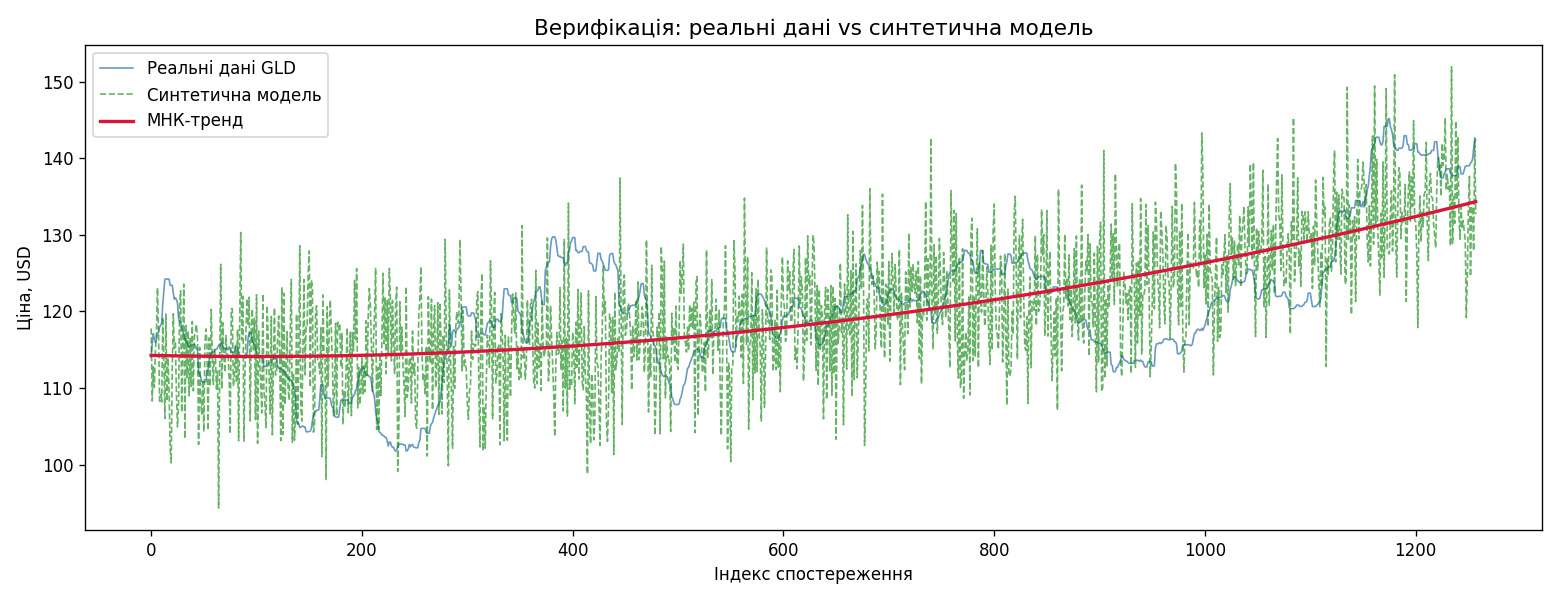
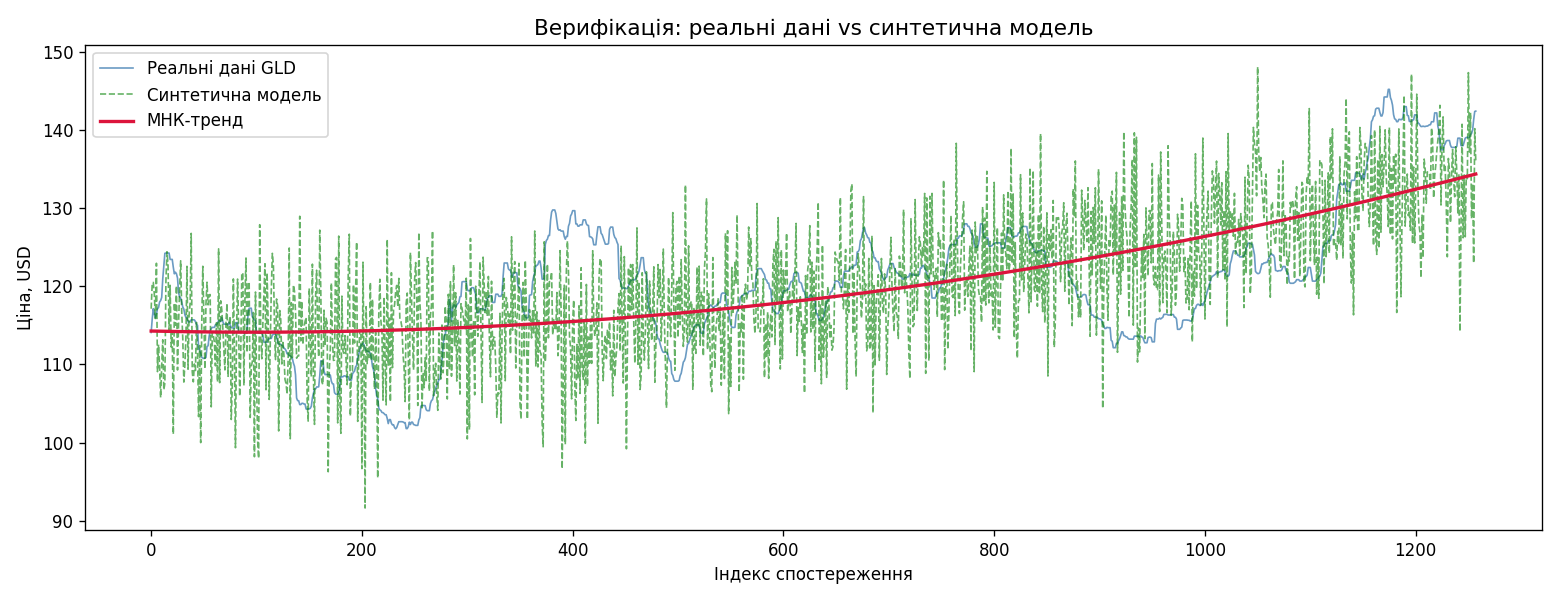
init project

diff --git a/lab 1/main.py b/lab 1/main.py
@@ -63,14 +63,7 @@ def save_to_csv(df: pd.DataFrame, filename: str = "gold_prices.csv") -> None:
     print(f"Рядків: {len(df)}")
 
 
-# ============================================================
-# 3. ОЦІНКА ДИНАМІКИ ТРЕНДУ
-# ============================================================
-
 def plot_trend(prices: np.ndarray, Yout: np.ndarray, title: str, filename: str) -> None:
-    """
-    Візуалізація реальних даних та лінії МНК-тренду.
-    """
     plt.figure(figsize=(12, 5))
     plt.plot(prices, color="steelblue", linewidth=1, label="Реальні ціни GLD")
     plt.plot(Yout[:, 0], color="crimson", linewidth=2, linestyle="--", label="МНК-тренд (квадратична модель)")
@@ -81,7 +74,7 @@ def plot_trend(prices: np.ndarray, Yout: np.ndarray, title: str, filename: str) 
     plt.tight_layout()
     plt.savefig(filename, dpi=120)
     plt.close()
-    print(f"   Графік збережено: {os.path.abspath(filename)}")
+    print(f"Графік збережено: {os.path.abspath(filename)}")
 
 
 def analyze_trend(prices: np.ndarray) -> None:
@@ -95,8 +88,6 @@ def analyze_trend(prices: np.ndarray) -> None:
     print(f"Остання ціна: {prices[-1]:.2f} USD")
     print(f"Загальна зміна: {total_change:+.2f} USD ({pct_change:+.2f}%)")
     slope = MNK_AV_Detect(prices)
-    direction = "↑" if slope > 0 else "↓"
-    print(f"Нахил МНК-моделі: {slope:.6f}({direction})")
 
 
 def stat_characteristics(prices: np.ndarray, label: str) -> dict:
@@ -225,10 +216,6 @@ def sliding_window_clean(S0: np.ndarray, n_wind: int) -> np.ndarray:
     return S_clean
 
 
-# ============================================================
-# 5. СИНТЕЗ МОДЕЛІ (МНК) ТА ВЕРИФІКАЦІЯ
-# ============================================================
-
 def synthesize_and_verify(prices: np.ndarray, stats: dict) -> None:
     print("=" * 60)
     print("5. Синтез та верифікація моделі даних")
@@ -239,12 +226,10 @@ def synthesize_and_verify(prices: np.ndarray, stats: dict) -> None:
 
     prices_clean = sliding_window_clean(prices, n_wind)
 
-    # --- МНК-згладжування реальних даних ---
     print("\n   --- МНК-згладжування ---")
     Yout_smooth = MNK(prices_clean)
     R2_smooth = r2_score_mnk(prices_clean, Yout_smooth, "МНК-згладжування")
 
-    # --- МНК-прогнозування ---
     print("\n   --- МНК-прогнозування ---")
     Yout_extrapol = MNK_Extrapol(prices_clean, koef)
     R2_extrapol = r2_score_mnk(prices_clean, Yout_extrapol[:n], "МНК-прогнозування")
@@ -254,11 +239,11 @@ def synthesize_and_verify(prices: np.ndarray, stats: dict) -> None:
                           for i in range(n)])
 
     # --- верифікація: порівняння стат. характеристик синтетичних і реальних залишків ---
-    print("\n   --- ВЕРИФІКАЦІЯ: порівняння стат. характеристик ---")
+    print("\n   --- Верифікація: порівняння стат. характеристик ---")
     Yout_synth = MNK(synthetic)
     synth_resid = np.array([synthetic[i] - Yout_synth[i, 0] for i in range(n)])
-    print(f"   Реальні дані  → mean={stats['mean']:.4f}, σ={stats['std']:.4f}")
-    print(f"   Синт. модель  → mean={np.mean(synth_resid):.4f}, σ={np.std(synth_resid):.4f}")
+    print(f"Реальні дані: mean={stats['mean']:.4f}, σ={stats['std']:.4f}")
+    print(f"Синт. модель: mean={np.mean(synth_resid):.4f}, σ={np.std(synth_resid):.4f}")
     R2_synth = r2_score_mnk(synthetic, Yout_synth, "синтетична МНК-модель")
 
     # --- графік МНК-тренду та прогнозу ---
@@ -276,9 +261,9 @@ def synthesize_and_verify(prices: np.ndarray, stats: dict) -> None:
     plt.tight_layout()
     plt.savefig("mnk_trend_forecast.png", dpi=120)
     plt.close()
-    print(f"   Графік збережено: {os.path.abspath('mnk_trend_forecast.png')}")
+    print(f"Графік збережено: {os.path.abspath('mnk_trend_forecast.png')}")
 
-    # --- порівняльний графік: реальні vs синтетичні дані ---
+    # --- порівняльний графік
     plt.figure(figsize=(13, 5))
     plt.plot(prices_clean, color="steelblue", linewidth=1, alpha=0.8, label="Реальні дані GLD")
     plt.plot(synthetic, color="green", linewidth=1, alpha=0.6, linestyle="--", label="Синтетична модель")
@@ -290,12 +275,7 @@ def synthesize_and_verify(prices: np.ndarray, stats: dict) -> None:
     plt.tight_layout()
     plt.savefig("verification_real_vs_synthetic.png", dpi=120)
     plt.close()
-    print(f"   Графік збережено: {os.path.abspath('verification_real_vs_synthetic.png')}")
-
-
-# ============================================================ прибрати потім
-# 6. АНАЛІЗ РЕЗУЛЬТАТІВ
-# ============================================================
+    print(f"Графік збережено: {os.path.abspath('verification_real_vs_synthetic.png')}")
 
 def print_analysis_summary(prices: np.ndarray, stats: dict) -> None:
     """

diff --git a/lab 2/main.py b/lab 2/main.py
@@ -1,0 +1,16 @@
+# This is a sample Python script.
+
+# Press ⌃R to execute it or replace it with your code.
+# Press Double ⇧ to search everywhere for classes, files, tool windows, actions, and settings.
+
+
+def print_hi(name):
+    # Use a breakpoint in the code line below to debug your script.
+    print(f'Hi, {name}')  # Press ⌘F8 to toggle the breakpoint.
+
+
+# Press the green button in the gutter to run the script.
+if __name__ == '__main__':
+    print_hi('PyCharm')
+
+# See PyCharm help at https://www.jetbrains.com/help/pycharm/